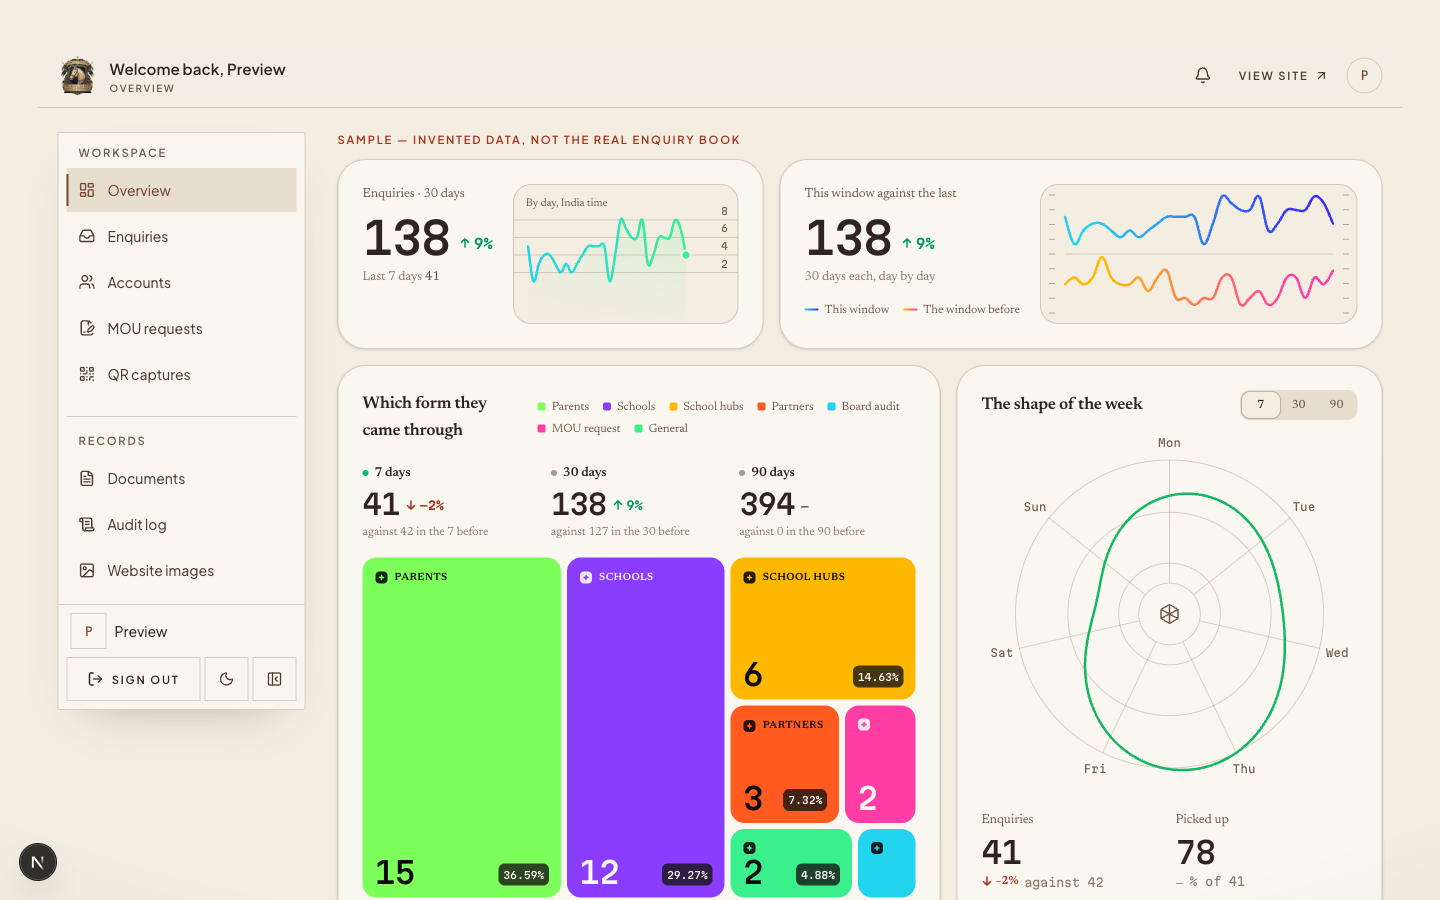
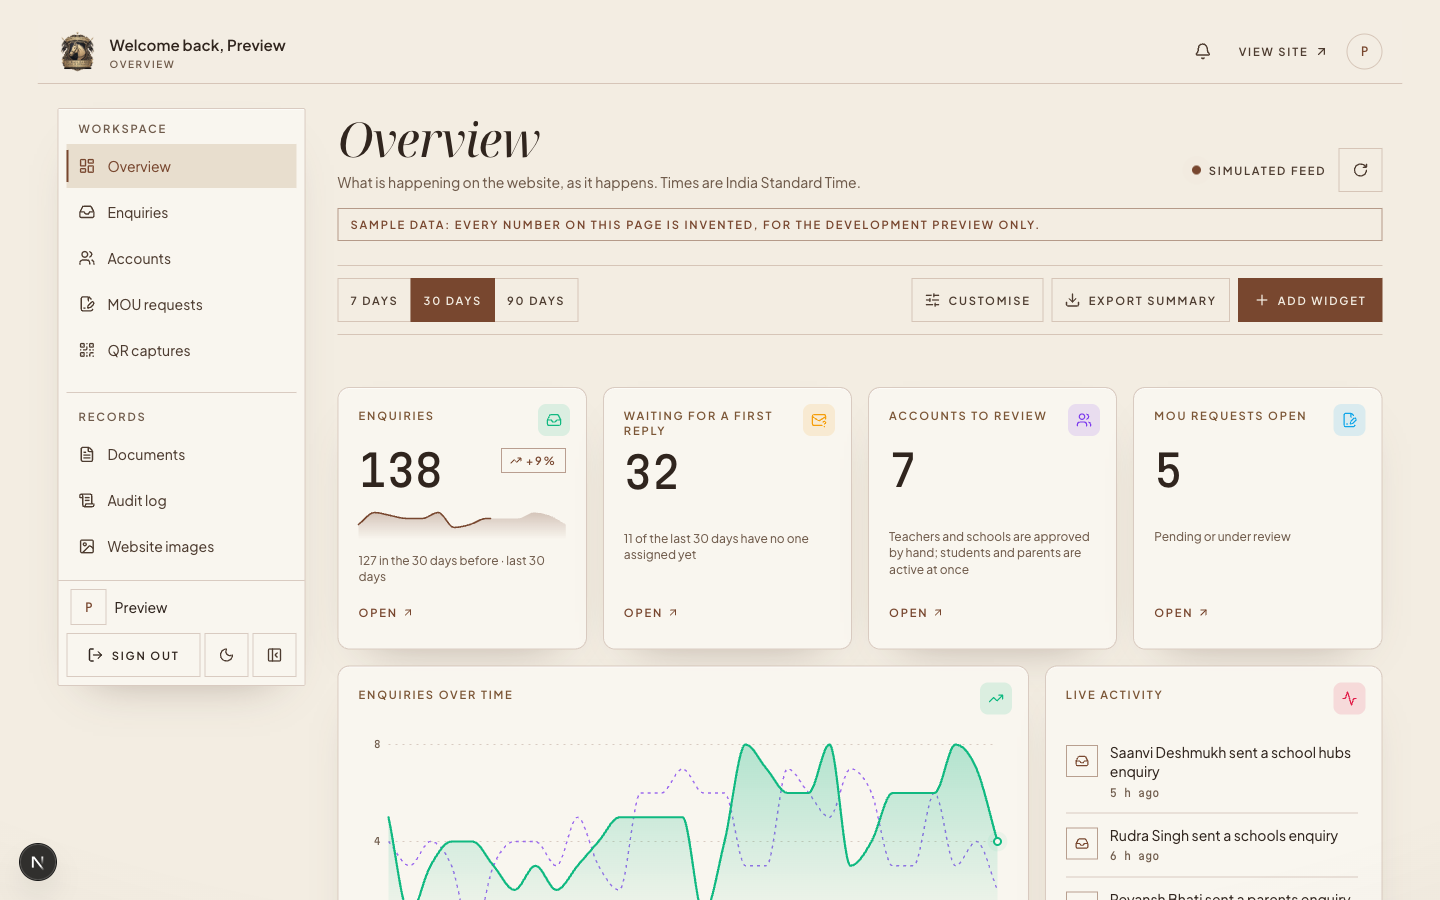
Console in the App1 order and colour; council seal on home standings; nav active underline
- /admin overview opens on "Overview" and its stat cards, each with a coloured category icon; the trend chart is emerald with the
  previous period dashed in violet; cards rounded; the colour chart set follows. Same real snapshot, nothing invented.
- Console header sits at the top of the screen; sign-in header keeps its breathing room.
- STPCI seal beside the home page's circuit standings; the current page in the top nav is underlined.

Typecheck, lint (0 errors) and next build pass. Screenshots in docs/qa/redesign-31oct.

diff --git a/components/sections/admin/dashboard/widgets.tsx b/components/sections/admin/dashboard/widgets.tsx
@@ -3,7 +3,7 @@
 import Link from "next/link";
 import { AnimatePresence, motion } from "motion/react";
 import type { ReactNode } from "react";
-import { ArrowUpRight, Inbox, ScrollText, TrendingDown, TrendingUp, Minus } from "lucide-react";
+import { Activity, ArrowUpRight, BarChart3, CalendarDays, CircleGauge, FileSignature, Inbox, ListChecks, MailQuestion, MapPin, ScrollText, Signpost, TrendingDown, TrendingUp, Minus, Users, type LucideIcon } from "lucide-react";
 import { gateLabel, relativeTime, statusName, type Aggregates, type Delta, type OverviewSnapshot, type RangeDays } from "@/lib/admin/overview";
 import { cn } from "@/lib/utils";
 import { ease } from "@/lib/motion/tokens";
@@ -25,6 +25,9 @@ export type WidgetDef = {
   tall?: boolean;
   /** Where the title links to, if anywhere. */
   href?: string;
+  /** The App1-style mark in the card's top-right corner, and its category colour (a `--color-signal-*` token). */
+  icon?: LucideIcon;
+  accent?: string;
   render: (c: WidgetCtx) => ReactNode;
   preview: ReactNode;
 };
@@ -124,6 +127,8 @@ const sketch = "h-full w-full text-brass";
 export const WIDGETS: readonly WidgetDef[] = [
   {
     id: "kpi-enquiries",
+    icon: Inbox,
+    accent: "var(--color-signal-emerald)",
     title: "Enquiries",
     tag: "Key figure",
     blurb: "How many enquiries arrived in the period, against the period before.",
@@ -148,6 +153,8 @@ export const WIDGETS: readonly WidgetDef[] = [
   },
   {
     id: "kpi-new",
+    icon: MailQuestion,
+    accent: "var(--color-signal-amber)",
     title: "Waiting for a first reply",
     tag: "Key figure",
     blurb: "Enquiries still marked New, across all time, and how many of the period's have nobody assigned.",
@@ -170,6 +177,8 @@ export const WIDGETS: readonly WidgetDef[] = [
   },
   {
     id: "kpi-accounts",
+    icon: Users,
+    accent: "var(--color-signal-violet)",
     title: "Accounts to review",
     tag: "Key figure",
     blurb: "Teacher and school accounts waiting for a staff decision.",
@@ -185,6 +194,8 @@ export const WIDGETS: readonly WidgetDef[] = [
   },
   {
     id: "kpi-mou",
+    icon: FileSignature,
+    accent: "var(--color-signal-sky)",
     title: "MOU requests open",
     tag: "Key figure",
     blurb: "School board agreements that are pending or being reviewed.",
@@ -200,6 +211,8 @@ export const WIDGETS: readonly WidgetDef[] = [
   },
   {
     id: "trend",
+    icon: TrendingUp,
+    accent: "var(--color-signal-emerald)",
     title: "Enquiries over time",
     tag: "Chart",
     blurb: "A line for each day of the period, with the period before as a dashed line. Touch or hover any day.",
@@ -208,6 +221,8 @@ export const WIDGETS: readonly WidgetDef[] = [
       <AreaChart
         reduced={c.reduced}
         unit="enquiries"
+        color="var(--color-signal-emerald)"
+        previousColor="var(--color-signal-violet)"
         data={c.agg.daily.map((d, i) => ({
           label: dayLabel(d.day),
           value: d.count,
@@ -224,6 +239,8 @@ export const WIDGETS: readonly WidgetDef[] = [
   },
   {
     id: "activity",
+    icon: Activity,
+    accent: "var(--color-signal-rose)",
     title: "Live activity",
     tag: "Feed",
     blurb: "New enquiries and staff changes as they happen. New rows slide in and glow for a few seconds.",
@@ -243,6 +260,8 @@ export const WIDGETS: readonly WidgetDef[] = [
   },
   {
     id: "forms",
+    icon: BarChart3,
+    accent: "var(--color-signal-violet)",
     title: "By form",
     tag: "Bars",
     blurb: "Which website forms the enquiries came through.",
@@ -258,6 +277,8 @@ export const WIDGETS: readonly WidgetDef[] = [
   },
   {
     id: "pipeline",
+    icon: ListChecks,
+    accent: "var(--color-signal-amber)",
     title: "Where they stand",
     tag: "Pipeline",
     blurb: "The period's enquiries by status, from New to Closed.",
@@ -278,6 +299,8 @@ export const WIDGETS: readonly WidgetDef[] = [
   },
   {
     id: "latest",
+    icon: Inbox,
+    accent: "var(--color-signal-sky)",
     title: "Latest enquiries",
     tag: "Table",
     blurb: "The eight newest enquiries, each linking to its page.",
@@ -322,6 +345,8 @@ export const WIDGETS: readonly WidgetDef[] = [
   },
   {
     id: "handled",
+    icon: CircleGauge,
+    accent: "var(--color-signal-emerald)",
     title: "Picked up",
     tag: "Gauge",
     blurb: "The share of the period's enquiries that someone has moved on from New.",
@@ -344,6 +369,8 @@ export const WIDGETS: readonly WidgetDef[] = [
   },
   {
     id: "weekday",
+    icon: CalendarDays,
+    accent: "var(--color-signal-violet)",
     title: "Busiest days",
     tag: "Columns",
     blurb: "Which days of the week enquiries tend to arrive on (India time).",
@@ -359,6 +386,8 @@ export const WIDGETS: readonly WidgetDef[] = [
   },
   {
     id: "sources",
+    icon: Signpost,
+    accent: "var(--color-signal-amber)",
     title: "Where they came from",
     tag: "Split",
     blurb: "QR codes, campaign links and direct visits.",
@@ -384,6 +413,8 @@ export const WIDGETS: readonly WidgetDef[] = [
   },
   {
     id: "hubs",
+    icon: MapPin,
+    accent: "var(--color-signal-rose)",
     title: "QR captures by hub",
     tag: "List",
     blurb: "Which hubs the scanned QR codes brought the most families from.",

diff --git a/components/sections/admin/dashboard/charts.tsx b/components/sections/admin/dashboard/charts.tsx
@@ -121,7 +121,7 @@ export type AreaPoint = { label: string; value: number; previous?: number };
  * Enquiries over time: a smooth line that draws itself, a soft fill, the previous period as a dashed line, a pointer (or finger)
  * that reads out any day, and a quiet pulse on today. The same data is in a hidden table for a screen reader.
  */
-export function AreaChart({ data, unit, reduced, height = 232 }: { data: readonly AreaPoint[]; unit: string; reduced: boolean; height?: number }) {
+export function AreaChart({ data, unit, reduced, height = 232, color = "var(--color-gold)", previousColor = "var(--color-dust)" }: { data: readonly AreaPoint[]; unit: string; reduced: boolean; height?: number; color?: string; previousColor?: string }) {
   const id = useId();
   const box = useRef<HTMLDivElement>(null);
   const [width, setWidth] = useState(640);
@@ -175,8 +175,8 @@ export function AreaChart({ data, unit, reduced, height = 232 }: { data: readonl
       >
         <defs>
           <linearGradient id={`${id}-fill`} x1="0" x2="0" y1="0" y2="1">
-            <stop offset="0" stopColor="var(--color-gold)" stopOpacity="0.3" />
-            <stop offset="1" stopColor="var(--color-gold)" stopOpacity="0" />
+            <stop offset="0" stopColor={color} stopOpacity="0.3" />
+            <stop offset="1" stopColor={color} stopOpacity="0" />
           </linearGradient>
         </defs>
         {ticks.map((t) => (
@@ -192,24 +192,24 @@ export function AreaChart({ data, unit, reduced, height = 232 }: { data: readonl
             {data[i]?.label}
           </text>
         ))}
-        {prev && <motion.path d={prev} fill="none" stroke="var(--color-dust)" strokeOpacity="0.7" strokeWidth="1.2" strokeDasharray="3 4" initial={false} animate={{ d: prev }} transition={{ duration: reduced ? 0 : 0.6, ease: ease.citadel }} />}
+        {prev && <motion.path d={prev} fill="none" stroke={previousColor} strokeOpacity="0.75" strokeWidth="1.4" strokeDasharray="3 4" initial={false} animate={{ d: prev }} transition={{ duration: reduced ? 0 : 0.6, ease: ease.citadel }} />}
         {area && <motion.path d={area} fill={`url(#${id}-fill)`} initial={reduced ? false : { opacity: 0 }} animate={{ opacity: 1, d: area }} transition={{ duration: reduced ? 0 : 0.9, delay: reduced ? 0 : 0.35, ease: ease.citadel }} />}
-        <motion.path d={line} fill="none" stroke="var(--color-gold)" strokeWidth="2" strokeLinecap="round" strokeLinejoin="round" initial={reduced ? false : { pathLength: 0 }} animate={{ pathLength: 1, d: line }} transition={{ pathLength: { duration: reduced ? 0 : 1.3, ease: ease.citadel }, d: { duration: reduced ? 0 : 0.6, ease: ease.citadel } }} />
+        <motion.path d={line} fill="none" stroke={color} strokeWidth="2.2" strokeLinecap="round" strokeLinejoin="round" initial={reduced ? false : { pathLength: 0 }} animate={{ pathLength: 1, d: line }} transition={{ pathLength: { duration: reduced ? 0 : 1.3, ease: ease.citadel }, d: { duration: reduced ? 0 : 0.6, ease: ease.citadel } }} />
         {pts.length > 0 && (
           <g>
             {!reduced && (
-              <circle cx={pts.at(-1)![0]} cy={pts.at(-1)![1]} r="4" fill="var(--color-gold)" opacity="0.35">
+              <circle cx={pts.at(-1)![0]} cy={pts.at(-1)![1]} r="4" fill={color} opacity="0.35">
                 <animate attributeName="r" values="4;11;4" dur="2.6s" repeatCount="indefinite" />
                 <animate attributeName="opacity" values="0.35;0;0.35" dur="2.6s" repeatCount="indefinite" />
               </circle>
             )}
-            <circle cx={pts.at(-1)![0]} cy={pts.at(-1)![1]} r="3.5" fill="var(--color-ember)" stroke="var(--color-gold)" strokeWidth="2" />
+            <circle cx={pts.at(-1)![0]} cy={pts.at(-1)![1]} r="3.5" fill="var(--color-ember)" stroke={color} strokeWidth="2" />
           </g>
         )}
         {hover !== null && (
           <g pointerEvents="none">
             <line x1={x(hover)} x2={x(hover)} y1={pad.t} y2={baseY} stroke="var(--color-brass)" strokeOpacity="0.6" />
-            <circle cx={x(hover)} cy={y(data[hover].value)} r="4.5" fill="var(--color-gold)" stroke="var(--color-ember)" strokeWidth="2" />
+            <circle cx={x(hover)} cy={y(data[hover].value)} r="4.5" fill={color} stroke="var(--color-ember)" strokeWidth="2" />
           </g>
         )}
       </svg>

diff --git a/components/sections/admin/dashboard/LiveDashboard.tsx b/components/sections/admin/dashboard/LiveDashboard.tsx
@@ -198,7 +198,7 @@ function WidgetCard({ w, ctx, index, editing, first, last, onMove, onRemove, red
       initial={reduced ? false : { opacity: 0, y: 18 }}
       animate={{ opacity: 1, y: 0 }}
       transition={{ duration: reduced ? 0 : 0.7, delay: reduced ? 0 : Math.min(index, 8) * 0.05, ease: ease.citadel, layout: { duration: 0.45, ease: ease.citadel } }}
-      className={cn("plate relative flex min-w-0 flex-col p-4 sm:p-5", SPAN[w.size], w.tall && "xl:row-span-2", editing && "outline outline-1 -outline-offset-4 outline-dashed outline-brass/60")}
+      className={cn("plate relative flex min-w-0 flex-col rounded-xl p-4 sm:p-5", SPAN[w.size], w.tall && "xl:row-span-2", editing && "outline outline-1 -outline-offset-4 outline-dashed outline-brass/60")}
     >
       <div className="flex items-start justify-between gap-3">
         <h2 className="label min-w-0 text-brass">
@@ -210,6 +210,11 @@ function WidgetCard({ w, ctx, index, editing, first, last, onMove, onRemove, red
             w.title
           )}
         </h2>
+        {!editing && w.icon && (
+          <span aria-hidden className="-mr-1 -mt-1 grid h-8 w-8 shrink-0 place-items-center rounded-lg" style={{ color: w.accent, backgroundColor: `color-mix(in srgb, ${w.accent} 13%, transparent)` }}>
+            <w.icon className="h-4 w-4" strokeWidth={1.8} />
+          </span>
+        )}
         {editing && (
           <div className="-mr-1 -mt-1 flex shrink-0 gap-1" role="group" aria-label={`Arrange ${w.title}`}>
             <IconButton label={`Move ${w.title} earlier`} disabled={first} onClick={() => onMove(w.id, -1)}><ArrowUp className="h-4 w-4" /></IconButton>

diff --git a/components/sections/home/HomeConvert.tsx b/components/sections/home/HomeConvert.tsx
@@ -3,6 +3,7 @@
 import { ScrollRevealText } from "@/components/motion/ScrollRevealText";
 
 import dynamic from "next/dynamic";
+import Image from "next/image";
 import { motion, useInView } from "motion/react";
 import { useEffect, useRef, useState } from "react";
 import { FilmImage } from "@/components/film/FilmImage";
@@ -99,7 +100,11 @@ export function HomeStandings() {
       </div>
 
       <div ref={ref} className="gutter mt-12">
-        <p className="label mb-3 text-dust">STPCI standings 2026–27 · sample</p>
+        <div className="mb-4 flex items-center gap-4">
+          {/* The standings are the council's: its seal, small, beside their label. */}
+          <Image src="/brand/stpci-medal.webp" alt="School Tent Pegging Council of India seal" width={720} height={745} className="h-14 w-auto object-contain" />
+          <p className="label text-dust">STPCI standings 2026–27 · sample</p>
+        </div>
         <ol className="border-t border-line">
           {standings.map((s, i) => (
             <li key={s.hub} className="relative border-b border-line py-5">

diff --git a/app/dev/admin-dashboard/page.tsx b/app/dev/admin-dashboard/page.tsx
@@ -23,10 +23,10 @@ export default async function AdminDashboardPreview() {
   await connection();
   const sample = sampleNow();
   return (
-    <section data-parallax-skip className="gutter min-h-[100svh] bg-night pb-24 pt-4 md:pt-6">
+    <section data-parallax-skip className="gutter min-h-[100svh] bg-night pb-24">
       <AdminShell name="Preview" current="overview">
-        <EnquiryBento snapshot={sample} nowMs={Date.parse(sample.generatedAt)} />
         <LiveDashboard initial={sample} refresh={refreshSample} intervalMs={6000} />
+        <div className="mt-10"><EnquiryBento snapshot={sample} nowMs={Date.parse(sample.generatedAt)} /></div>
       </AdminShell>
     </section>
   );

diff --git a/app/admin/EntryHeader.tsx b/app/admin/EntryHeader.tsx
@@ -5,7 +5,7 @@ import { Wordmark } from "@/components/brand/Wordmark";
 /** The console's entry screens (sign-in, password reset) have no public nav: just the crest, the name and a way back. */
 export function EntryHeader() {
   return (
-    <header className="mb-12 flex items-center justify-between gap-6 border-b border-line pb-4 md:mb-16">
+    <header className="mb-12 flex items-center justify-between gap-6 border-b border-line pb-4 pt-5 md:mb-16 md:pt-6">
       <Link href="/" className="flex items-center gap-3" aria-label="Black Stallion Academy, home">
         <CrestMark className="h-11 w-11" decorative />
         <Wordmark layout="inline" />

diff --git a/app/globals.css b/app/globals.css
@@ -51,6 +51,12 @@
   /* Swiss-editorial gallery pair (31 Oct 2026, owner's reference): off-white paper and black ink. */
   --color-paper: #f5f5f2;
   --color-ink: #111110;
+  /* Console category colours (31 Oct 2026, owner's request for a colourful dashboard): one per figure, matching the chart set. */
+  --color-signal-emerald: #10b981;
+  --color-signal-violet: #7c3aed;
+  --color-signal-amber: #f59e0b;
+  --color-signal-sky: #0ea5e9;
+  --color-signal-rose: #e11d48;
 
   /* Official Marwari Studbook colour registry (coat colours, not UI colours) */
   --color-bhanwar: #2a1d15;

diff --git a/components/site/SiteNav.tsx b/components/site/SiteNav.tsx
@@ -276,7 +276,7 @@ function TopNavLink({ href, label, active }: { href: string; label: string; acti
       onMouseLeave={() => setHot(false)}
       onFocus={() => setHot(true)}
       onBlur={() => setHot(false)}
-      className={cn("label block py-1 transition-colors hover:text-gold", active ? "text-gold" : "text-sand")}
+      className={cn("label block border-b py-1 transition-colors hover:text-gold", active ? "border-current text-gold" : "border-transparent text-sand")}
     >
       <AnimatedMenuText center active={hot}>{label}</AnimatedMenuText>
     </Link>

diff --git a/app/admin/page.tsx b/app/admin/page.tsx
@@ -26,8 +26,8 @@ export default async function AdminOverview({ searchParams }: PageProps<"/admin"
   const initial = await loadOverview(supabase);
   return (
     <AdminShell name={profile.display_name} current="overview">
-      <EnquiryBento snapshot={initial} nowMs={Date.parse(initial.generatedAt)} />
       <LiveDashboard initial={initial} refresh={refreshOverview} />
+      <div className="mt-10"><EnquiryBento snapshot={initial} nowMs={Date.parse(initial.generatedAt)} /></div>
     </AdminShell>
   );
 }

diff --git a/app/admin/layout.tsx b/app/admin/layout.tsx
@@ -22,5 +22,5 @@ export const instant = false;
  * section headings onto the rules beneath them.
  */
 export default function AdminLayout({ children }: { children: React.ReactNode }) {
-  return <section data-parallax-skip className="gutter min-h-[100svh] bg-night pb-24 pt-4 md:pt-6">{children}</section>;
+  return <section data-parallax-skip className="gutter min-h-[100svh] bg-night pb-24">{children}</section>;
 }

diff --git a/PROGRESS.md b/PROGRESS.md
@@ -659,6 +659,8 @@ Owner: the admin dashboard was very static; rebuild it with the references (a co
   - Galleries: `StaticImageReel` has two compositions of one system: "views" (campus: warm black, two columns, captions under unobstructed stills) and "editorial" (cadets: off-white paper, black ink, stills in black and white, uppercase captions, oversized sans heading). The home first-ride journey drops its brown ground, sepia filter and hover zoom.
   - Dark scope unified to the owner's palette: night #171412, bone #F0EBE4, sand #B8ADA2, brass #9A7859; new fixed tokens `paper` and `ink`.
   - Home film: no picture behind it, plain black around the frame on phone and desktop, edges cut clean, the top and bottom shades removed.
+  - Console body in the App1 order and colour: "Overview" and its stat cards first, each card with a coloured category icon (`--color-signal-*` tokens), the trend chart in emerald with the previous period dashed in violet, rounded cards; the colour chart set follows below. Still the real enquiry snapshot; nothing invented.
+  - STPCI seal also beside the home page's circuit standings; the current page in the top nav has a quiet underline.
   - QA: `docs/qa/redesign-31oct/` (1440 and 390). Typecheck and lint (0 errors) pass; build result in the commit message.
 - [x] **31 Oct 2026 · Supplied scenes moved (owner's request).**
   - `/science` robot: the dark stage and raking light are gone; the Spline scene (transparent backdrop, animation untouched) now stands on the page's ivory, its cut-off legs fading out. Spotlight no longer used there.
